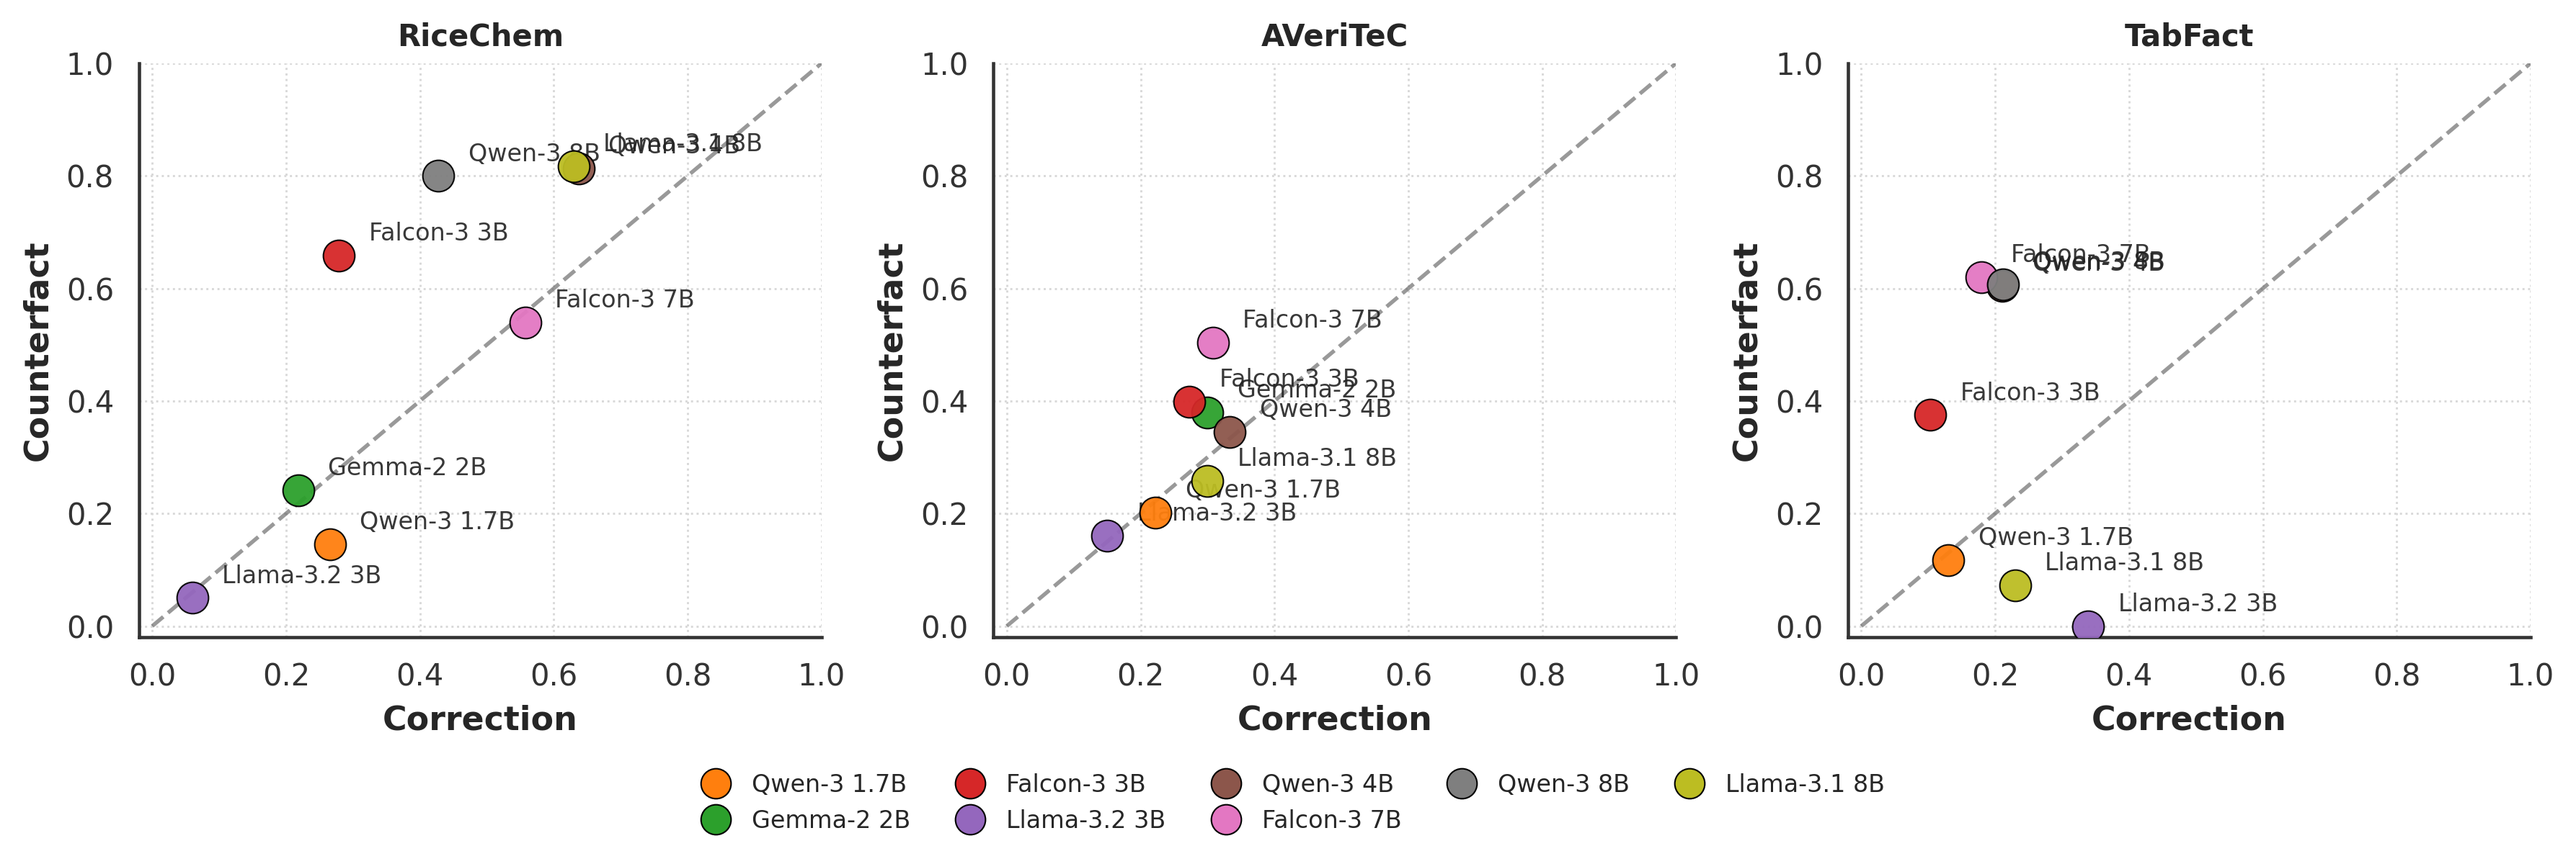
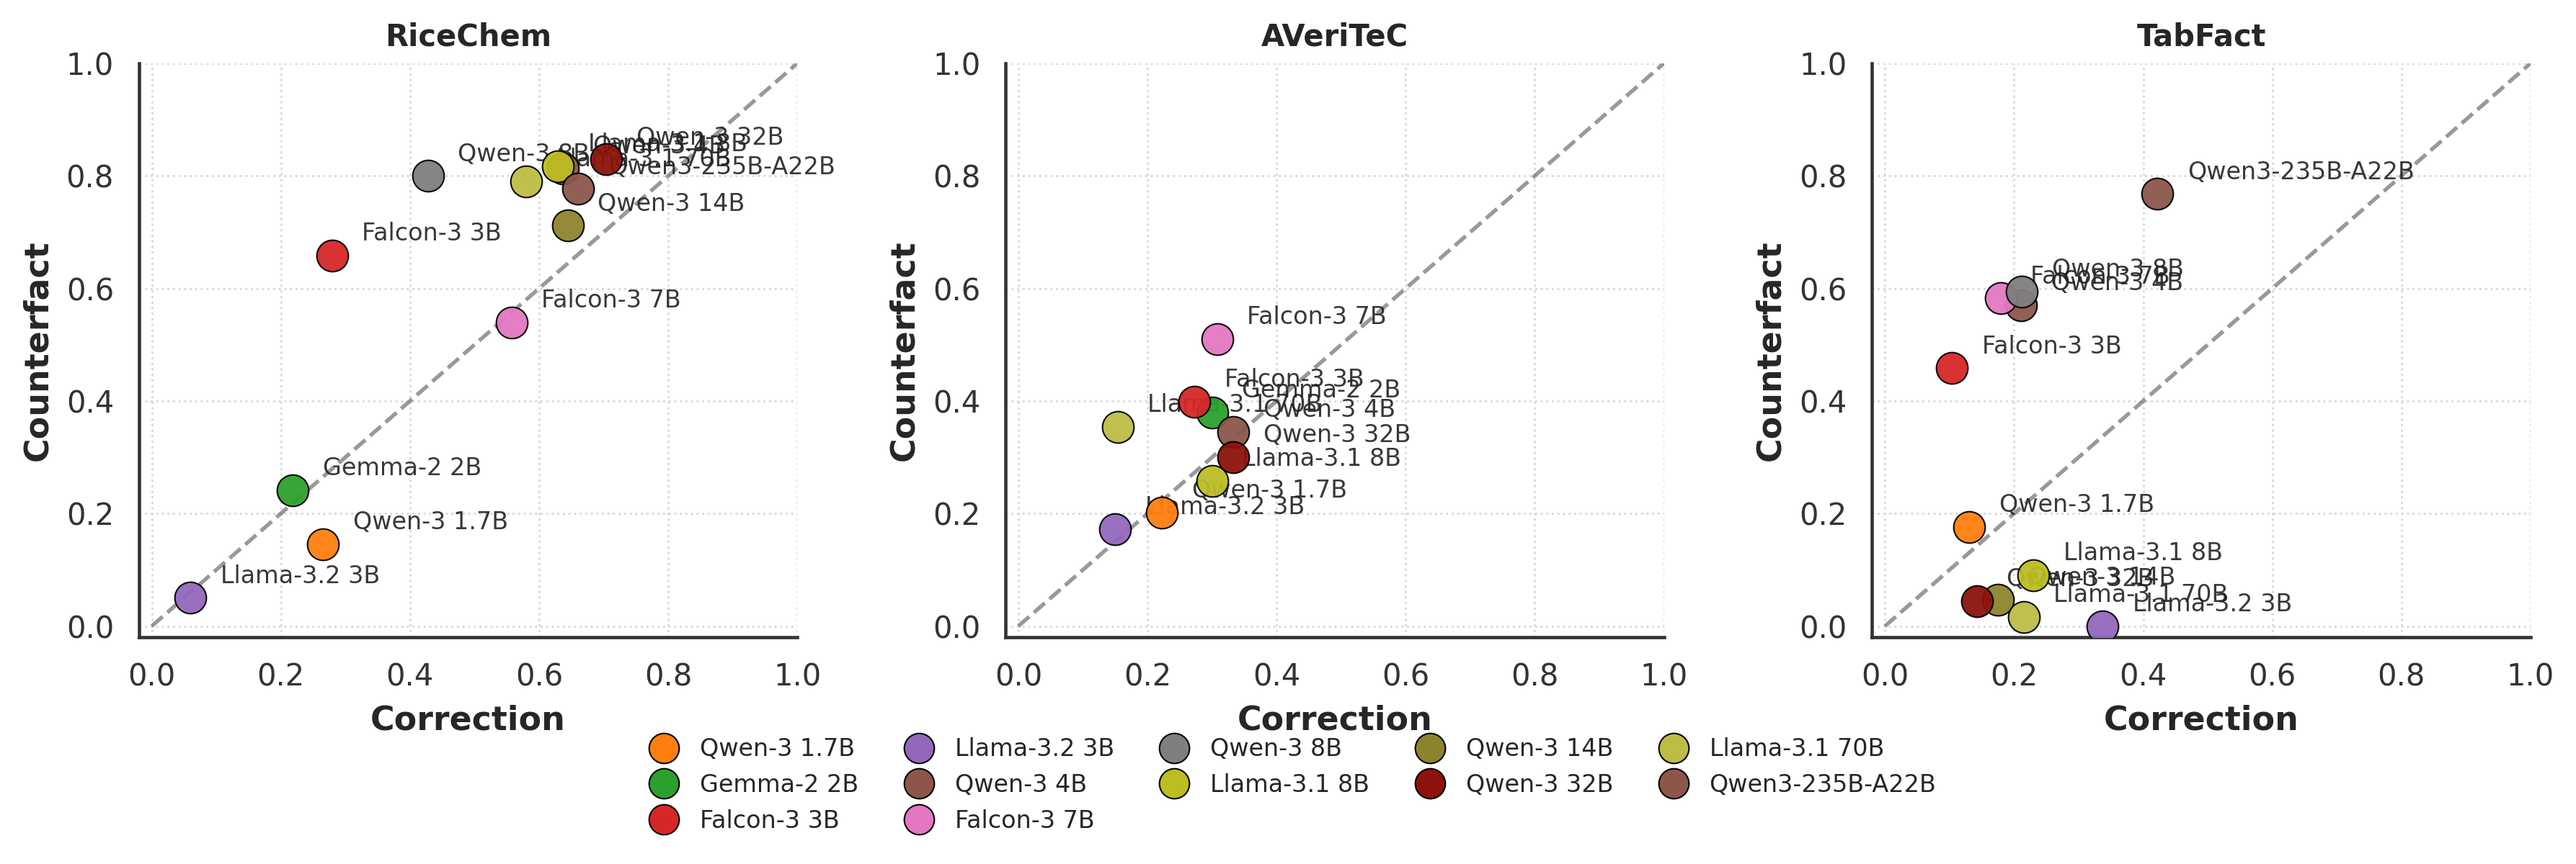
minor changes and fixes, bigger models added

diff --git a/make_intervention.py b/make_intervention.py
@@ -29,13 +29,17 @@ model_name2simple = {
     "Qwen/Qwen3-1.7B": "qwen3-1.7B",
     "Qwen/Qwen3-4B": "qwen3-4B",
     "Qwen/Qwen3-8B": "qwen3-8B",
+    "Qwen/Qwen3-235B-A22B-Instruct-2507": "qwen3-235B-a22B",
     "tiiuae/Falcon3-3B-Instruct": "falcon3-3B",
     "tiiuae/Falcon3-7B-Instruct": "falcon3-7B",
     "alpindale/Llama-3.2-1B-Instruct": "llama32-1B",
     "alpindale/Llama-3.2-3B-Instruct": "llama32-3B",
     "unsloth/Meta-Llama-3.1-8B-Instruct": "llama31-8B",
     "google/gemma-2-2b-it": "gemma2-2B",
-    "Meta-llama/Llama-3.1-70B-Instruct": "llama-70B",
+    "Openai/Gpt-oss-120b": "gpt-oss-120b",
+    "unsloth/Meta-Llama-3.1-70B-Instruct-bnb-4bit": "llama31-70B",
+    "unsloth/Qwen3-32B-bnb-4bit": "qwen3-32B",
+    "unsloth/Qwen3-14B-bnb-4bit": "qwen3-14B"
 }
 
 
@@ -71,7 +75,7 @@ if __name__ == "__main__":
     parser.add_argument("--try_one_batch", action="store_true")
     parser.add_argument("--seed", type=int, default=42)
     parser.add_argument("--use_api", action="store_true")
-    parser.add_argument("--api_base_url", type=str, default='https://inference.airi.net:46783/v1')
+    parser.add_argument("--api_base_url", type=str, default=None)
     parser.add_argument("--tokenizer_name", type=str, default=None)
 
     args = parser.parse_args()

diff --git a/llm_model.py b/llm_model.py
@@ -1,5 +1,5 @@
 import torch
-from transformers import AutoModelForCausalLM, AutoTokenizer
+from transformers import AutoModelForCausalLM, AutoTokenizer, BitsAndBytesConfig
 from typing import Dict, List, Union
 import re
 import os
@@ -92,7 +92,7 @@ class LLMModel:
 
         if (hasattr(self.model.config, 'architectures') and 
                          self.model.config.architectures and 
-                         self.model.config.architectures[0] == "Qwen3ForCausalLM"):
+                         (self.model.config.architectures[0] == "Qwen3ForCausalLM" or self.model.config.architectures[0] == "Qwen3MoeForCausalLM")):
             return QWEN3_MODEL_FAMILY
         elif (hasattr(self.model.config, 'architectures') and
               self.model.config.architectures and

diff --git a/datasets_for_intervention/tabfact_intervention.py b/datasets_for_intervention/tabfact_intervention.py
@@ -54,6 +54,9 @@ class TabFactIntervention:
             f"prompting_regime must be one of: standard, detailed, max_detailed. "
             f"Got: {prompting_regime}"
         )
+        if tool_mode != 'none':
+            tool_mode = 'simple'
+    
         assert tool_mode in ("none", "simple"), (
             f"tool_mode for TabFact must be 'none' or 'simple'. Got: {tool_mode}"
         )

diff --git a/datasets_for_intervention/tabfact_evaluation.py b/datasets_for_intervention/tabfact_evaluation.py
@@ -54,6 +54,9 @@ class TabFactEvaluation:
         self.processor = processor
         self.tool = tool
 
+        if tool_mode != 'none':
+            tool_mode = 'simple'
+
         assert tool_mode in ("none", "simple"), (
             f"tool_mode must be 'none' or 'simple'. Got: {tool_mode}"
         )
